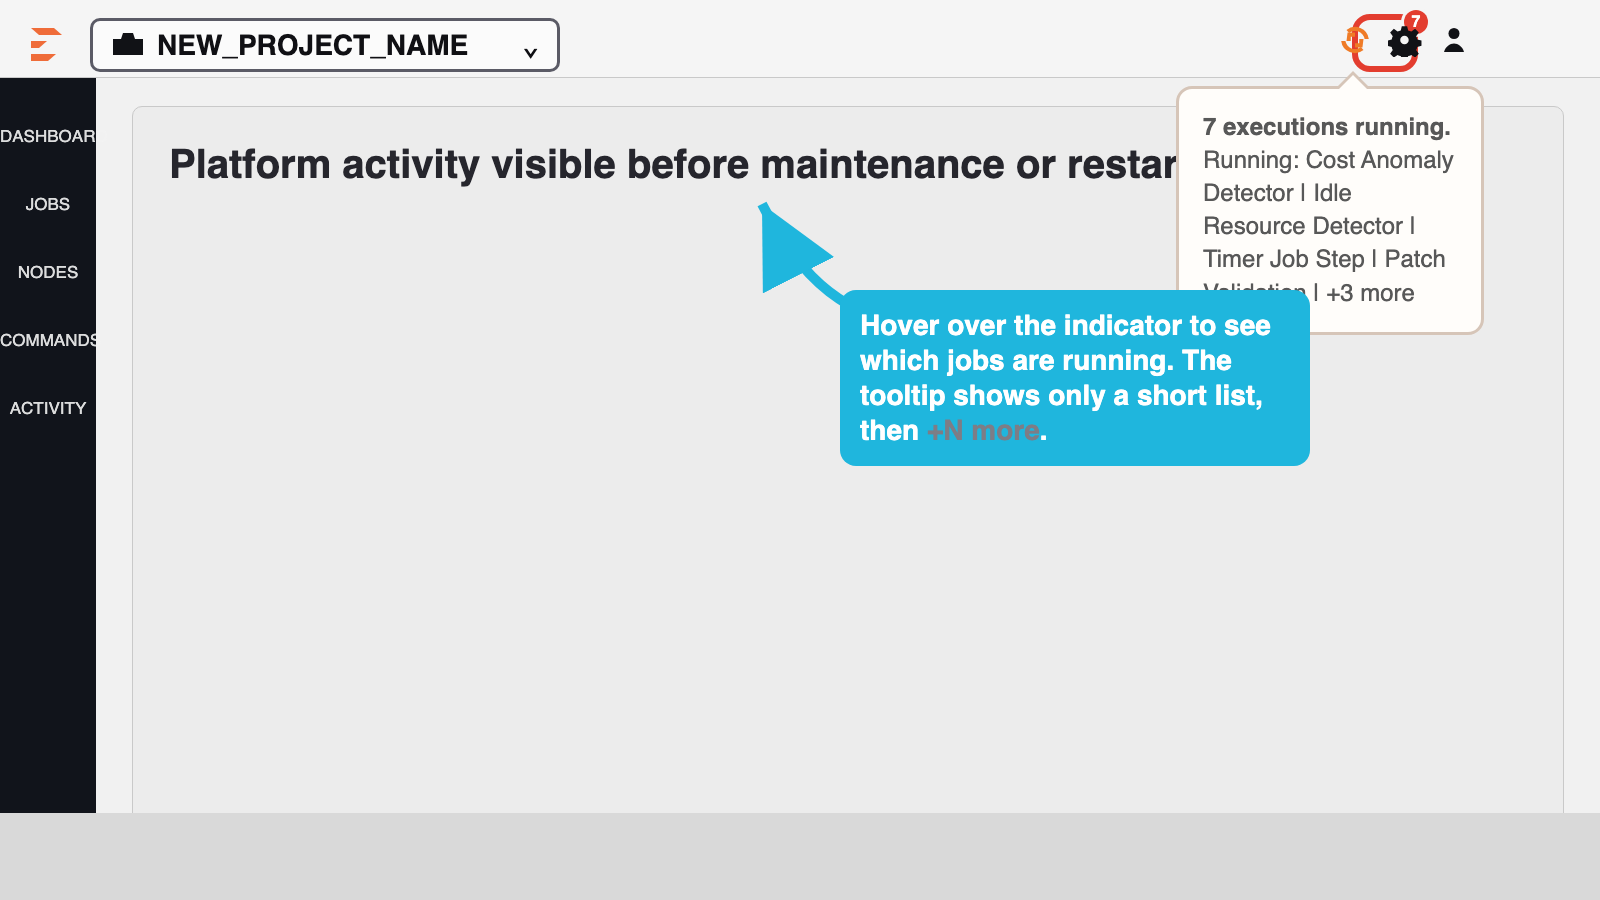
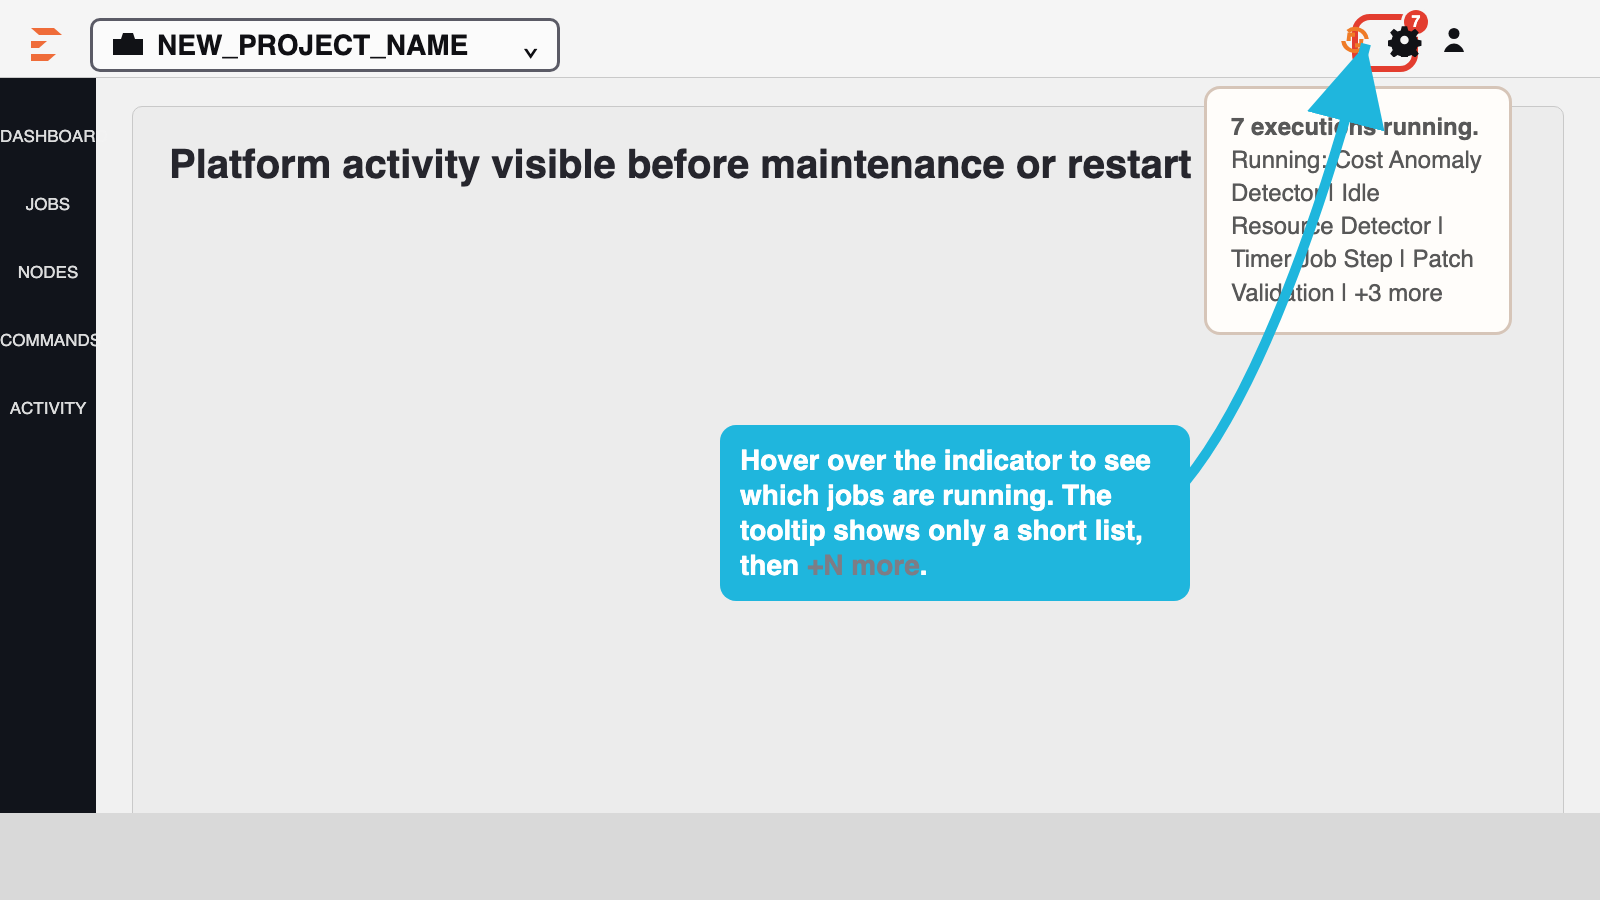
Fix annotated screenshot alignment

Changed region(s): [[0.4375, 0.0311, 0.9375, 0.6844], [0.9062, 0.3422, 0.9375, 0.3733], [0.7188, 0.0933, 0.75, 0.1244]]

diff --git a/docs/assets/activity-indicator-screenshot.html b/docs/assets/activity-indicator-screenshot.html
@@ -181,7 +181,7 @@
 
     .tooltip {
       position: absolute;
-      right: -6px;
+      right: -34px;
       top: 72px;
       width: 308px;
       padding: 22px 24px;
@@ -197,7 +197,7 @@
     .tooltip:before {
       content: "";
       position: absolute;
-      right: 110px;
+      right: 138px;
       top: -18px;
       width: 0;
       height: 0;
@@ -209,7 +209,7 @@
     .tooltip:after {
       content: "";
       position: absolute;
-      right: 113px;
+      right: 141px;
       top: -14px;
       width: 0;
       height: 0;
@@ -220,17 +220,18 @@
 
     .arrow-callout {
       position: absolute;
-      right: 290px;
-      top: 186px;
-      width: 620px;
-      height: 280px;
+      left: 0;
+      top: 0;
+      width: 1600px;
+      height: 900px;
       z-index: 7;
+      pointer-events: none;
     }
 
     .callout-box {
       position: absolute;
-      right: 0;
-      bottom: 0;
+      left: 720px;
+      top: 425px;
       width: 470px;
       background: var(--cyan);
       color: #fff;
@@ -245,6 +246,7 @@
       position: absolute;
       left: 0;
       top: 0;
+      overflow: visible;
     }
 
     .subtle {
@@ -311,13 +313,13 @@
       </div>
     </div>
     <div class="arrow-callout">
-      <svg class="arrow-line" width="240" height="170" viewBox="0 0 240 170" aria-hidden="true">
+      <svg class="arrow-line" width="1600" height="900" viewBox="0 0 1600 900" aria-hidden="true">
         <defs>
           <marker id="arrowhead" markerWidth="12" markerHeight="12" refX="8" refY="4" orient="auto">
             <polygon points="0 0, 8 4, 0 8" fill="#1fb6dd"></polygon>
           </marker>
         </defs>
-        <path d="M235 150 C 155 126, 114 100, 72 18" stroke="#1fb6dd" stroke-width="10" fill="none" marker-end="url(#arrowhead)"></path>
+        <path d="M1185 482 C 1260 390, 1324 205, 1366 44" stroke="#1fb6dd" stroke-width="10" fill="none" marker-end="url(#arrowhead)"></path>
       </svg>
       <div class="callout-box">
         Hover over the indicator to see which jobs are running. The tooltip shows only a short list, then <span class="subtle">+N more</span>.
